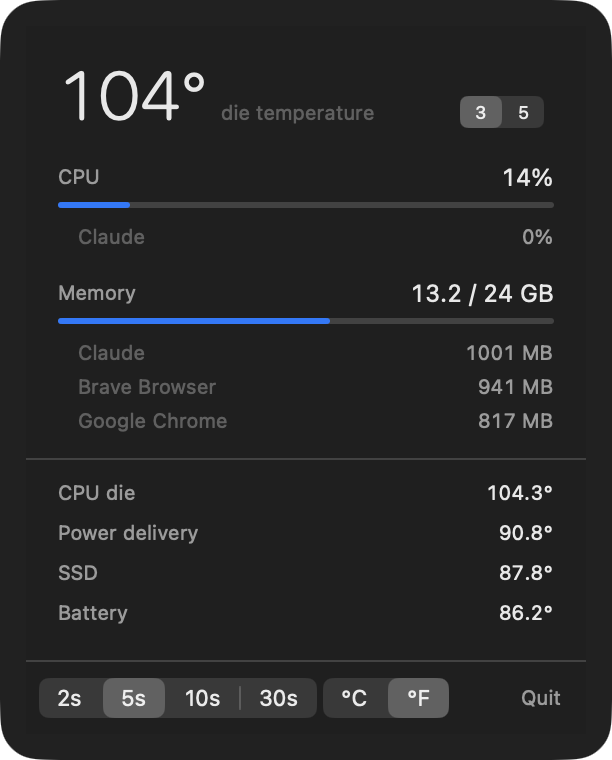
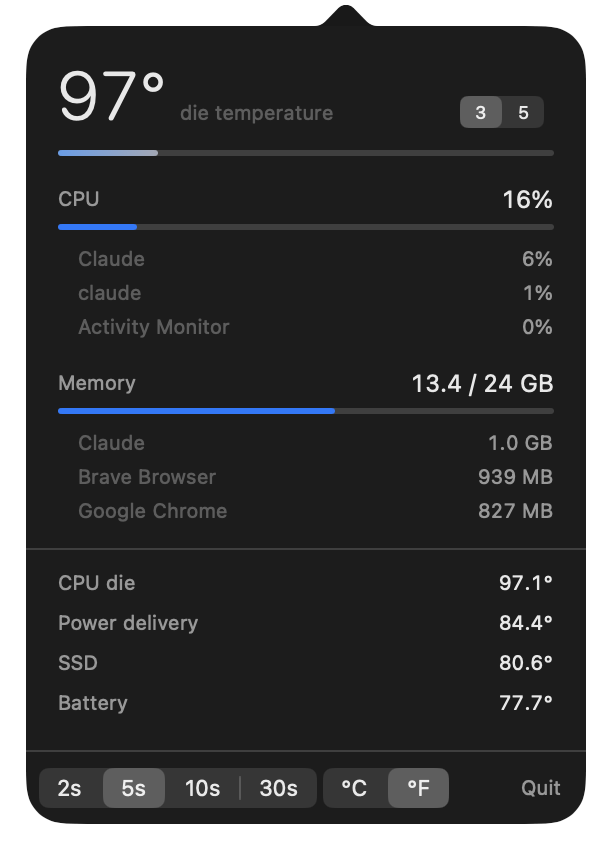
Replace thermal number tint with a cold→hot gradient temperature bar
Colored numbers read as alerts and felt distracting; a gradient fill bar
matching the CPU/Memory indicators is ambient and uniform. Fill length and
leading-edge color both track where the temperature sits on a 20–100°C range.

diff --git a/Sources/StatsMenu/DetailView.swift b/Sources/StatsMenu/DetailView.swift
@@ -25,23 +25,25 @@ struct DetailView: View {
 
     private var headline: some View {
         VStack(alignment: .leading, spacing: 14) {
-            HStack(alignment: .firstTextBaseline, spacing: 6) {
-                Text(model.headlineTemp.map { "\(Int(model.displayDegrees($0).rounded()))°" } ?? "--°")
-                    .font(.system(size: 34, weight: .light, design: .rounded))
-                    .monospacedDigit()
-                    .foregroundStyle(headlineColor)
-                Text("die temperature")
-                    .font(.caption)
-                    .foregroundStyle(.tertiary)
-                Spacer()
-                Picker("Top process count", selection: $model.topProcessCount) {
-                    Text("3").tag(3)
-                    Text("5").tag(5)
+            VStack(alignment: .leading, spacing: 8) {
+                HStack(alignment: .firstTextBaseline, spacing: 6) {
+                    Text(model.headlineTemp.map { "\(Int(model.displayDegrees($0).rounded()))°" } ?? "--°")
+                        .font(.system(size: 34, weight: .light, design: .rounded))
+                        .monospacedDigit()
+                    Text("die temperature")
+                        .font(.caption)
+                        .foregroundStyle(.tertiary)
+                    Spacer()
+                    Picker("Top process count", selection: $model.topProcessCount) {
+                        Text("3").tag(3)
+                        Text("5").tag(5)
+                    }
+                    .pickerStyle(.segmented)
+                    .labelsHidden()
+                    .controlSize(.mini)
+                    .frame(width: 52)
                 }
-                .pickerStyle(.segmented)
-                .labelsHidden()
-                .controlSize(.mini)
-                .frame(width: 52)
+                temperatureBar
             }
             metricRow(
                 label: "CPU",
@@ -58,12 +60,33 @@ struct DetailView: View {
         }
     }
 
-    private var headlineColor: Color {
-        switch model.thermalLevel {
-        case .normal: .primary
-        case .warm: .orange
-        case .hot: .red
+    /// Same 3pt capsule as the CPU/Memory bars, but the fill is a fixed
+    /// cold→hot gradient revealed up to where the current temperature
+    /// sits — so both the length and the leading-edge color read the heat.
+    private var temperatureBar: some View {
+        GeometryReader { geo in
+            ZStack(alignment: .leading) {
+                Capsule().fill(.quaternary)
+                Rectangle()
+                    .fill(temperatureGradient)
+                    .mask(alignment: .leading) {
+                        Capsule().frame(width: geo.size.width * (model.temperatureFraction ?? 0))
+                    }
+            }
         }
+        .frame(height: 3)
+    }
+
+    private var temperatureGradient: LinearGradient {
+        LinearGradient(
+            colors: [
+                Color(red: 0.35, green: 0.62, blue: 0.92),  // cold
+                Color(red: 0.98, green: 0.66, blue: 0.25),  // warm
+                Color(red: 0.90, green: 0.30, blue: 0.28),  // hot
+            ],
+            startPoint: .leading,
+            endPoint: .trailing
+        )
     }
 
     private func metricRow(label: String, value: String, fraction: Double?) -> some View {

diff --git a/Sources/StatsMenu/StatsModel.swift b/Sources/StatsMenu/StatsModel.swift
@@ -5,22 +5,10 @@ enum MenuBarMode: String {
     case compact, extended
 }
 
-/// Thermal state driving the color cue. Colour is meant to be rare —
-/// normal runs neutral, and a tint only appears when the machine is
-/// genuinely warm or hot.
-enum ThermalLevel {
-    case normal, warm, hot
-
-    static let warmThreshold = 85.0  // °C
-    static let hotThreshold = 98.0  // °C
-
-    init(celsius: Double) {
-        switch celsius {
-        case ..<ThermalLevel.warmThreshold: self = .normal
-        case ..<ThermalLevel.hotThreshold: self = .warm
-        default: self = .hot
-        }
-    }
+/// Fixed range mapping temperature onto the panel's cold→hot bar.
+enum Thermal {
+    static let coldPoint = 20.0  // °C — left (cold) end of the bar
+    static let hotPoint = 100.0  // °C — right (hot) end of the bar
 }
 
 @MainActor
@@ -99,8 +87,11 @@ final class StatsModel {
         (cpuProcessPool, memoryProcessPool) = processSampler.sample(top: 5)
     }
 
-    var thermalLevel: ThermalLevel {
-        headlineTemp.map(ThermalLevel.init) ?? .normal
+    /// Where the current temperature sits on the cold→hot bar, 0...1.
+    var temperatureFraction: Double? {
+        headlineTemp.map {
+            min(max(($0 - Thermal.coldPoint) / (Thermal.hotPoint - Thermal.coldPoint), 0), 1)
+        }
     }
 
     /// Celsius converted to the display unit.

diff --git a/Sources/StatsMenu/StatusBarController.swift b/Sources/StatsMenu/StatusBarController.swift
@@ -41,26 +41,12 @@ final class StatusBarController: NSObject {
     /// the next change to any @Observable property menuTitle reads.
     private func updateTitle() {
         withObservationTracking {
-            let title = NSMutableAttributedString(
+            statusItem.button?.attributedTitle = NSAttributedString(
                 string: model.menuTitle,
                 attributes: [.font: NSFont.monospacedSystemFont(ofSize: 12, weight: .regular)]
             )
-            // Tint only the temperature token (digits + degree = first 4
-            // chars); leave CPU/RAM in the adaptive default color.
-            if let color = menuBarTintColor(for: model.thermalLevel), title.length >= 4 {
-                title.addAttribute(.foregroundColor, value: color, range: NSRange(location: 0, length: 4))
-            }
-            statusItem.button?.attributedTitle = title
         } onChange: { [weak self] in
             Task { @MainActor in self?.updateTitle() }
-        }
-    }
-
-    private func menuBarTintColor(for level: ThermalLevel) -> NSColor? {
-        switch level {
-        case .normal: nil
-        case .warm: .systemOrange
-        case .hot: .systemRed
         }
     }
 
